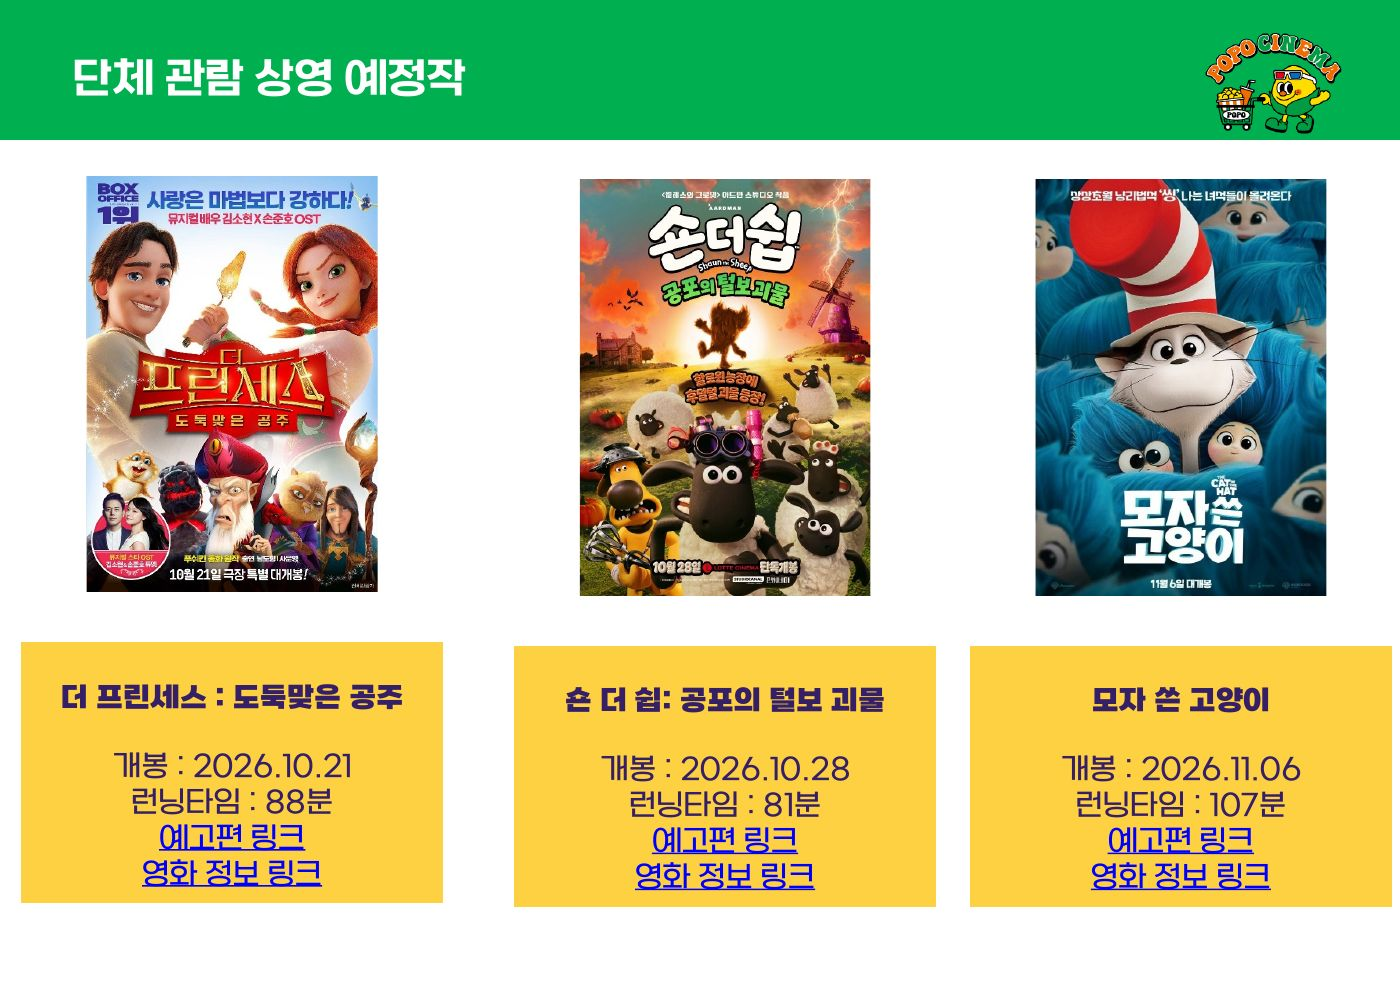
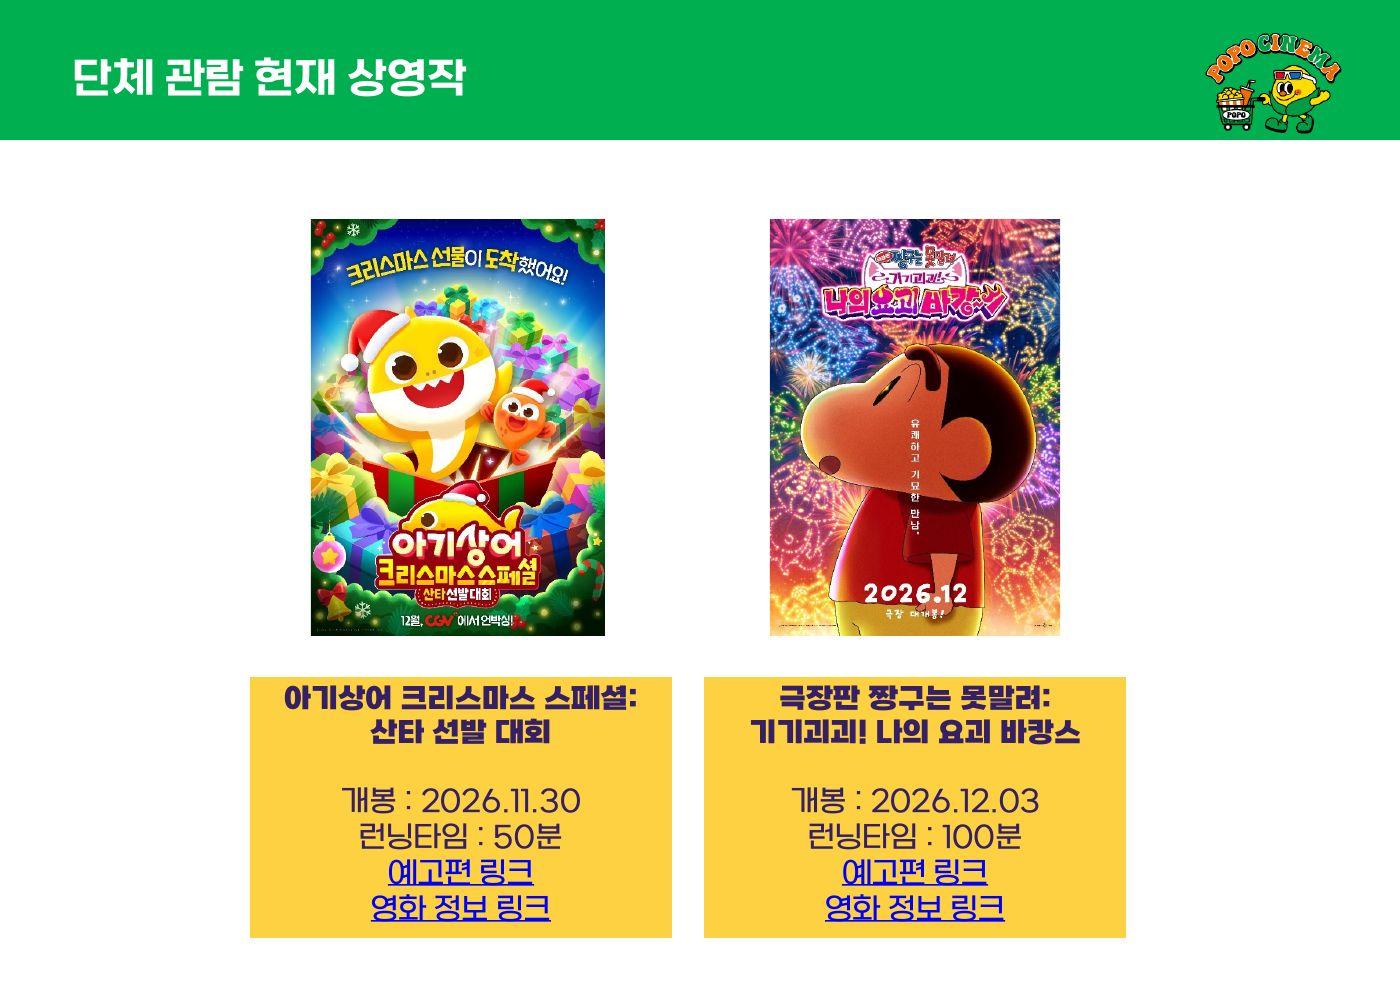
영화 안내 1월판(27년 1월 PDF): 현재 상영작 정리, 미션산타 예고편

diff --git a/movies/index.html b/movies/index.html
@@ -83,9 +83,9 @@
 </footer>
 <script>
   // 영화안내\만들기.js 가 채운다: 쪽 수, 그림 속 링크 칸(쪽 대비 %), 영화별 버튼
-  var PAGES = 17;
-  var AREAS = [{"p":9,"x":71.59,"y":54.52,"w":10.26,"h":2.62,"u":"https://www.youtube.com/watch?v=S7wUsCwu_dI","k":"예고편"},{"p":9,"x":71.5,"y":58.01,"w":12.67,"h":2.73,"u":"https://search.naver.com/search.naver?where=nexearch&sm=tab_etc&mra=bkEw&pkid=68&os=32764154&qvt=0&query=%ED%95%91%ED%81%AC%ED%90%81%20%EC%9B%90%EB%8D%94%EC%8A%A4%ED%83%80%20%ED%8A%B9%EB%B3%84%ED%8E%B8%EF%BC%9A%20%ED%98%B8%EA%B8%B0%EC%99%80%20%EB%8F%84%EB%91%91%EC%9E%90%EB%8F%99%EC%B0%A8","k":"영화 정보"},{"p":14,"x":79.21,"y":82.83,"w":10.25,"h":2.63,"u":"https://m.naver.com/shorts/?seedMediaId=0BFB34426074E412215D0DFA6DEBDBCA80B1&serviceType=NTV","k":"예고편"},{"p":14,"x":78,"y":86.3,"w":12.67,"h":2.75,"u":"https://search.naver.com/search.naver?where=nexearch&ssc=tab.nx.all&sm=tab_clk.se&qvt=0&query=%EB%AA%A8%EC%9E%90+%EC%93%B4+%EA%B3%A0%EC%96%91%EC%9D%B4+%EC%A0%95%EB%B3%B4&os=41464329&pkid=68&mra=QkRS%5EbkEw%5EVmJEX0NQYw%3D%3D%5ETEdOX0tJVA%3D%3D","k":"영화 정보"},{"p":14,"x":46.66,"y":82.83,"w":10.25,"h":2.63,"u":"https://m.naver.com/shorts/?seedMediaId=ADFA40A278C5D6BFB388029791CA37635898&serviceType=CLIP","k":"예고편"},{"p":14,"x":45.45,"y":86.3,"w":12.67,"h":2.75,"u":"https://search.naver.com/search.naver?where=nexearch&ssc=tab.nx.all&sm=tab_clk.se&qvt=0&query=%EC%88%80+%EB%8D%94+%EC%89%BD+%EA%B3%B5%ED%8F%AC%EC%9D%98+%ED%84%B8%EB%B3%B4+%EA%B4%B4%EB%AC%BC&os=42185628&pkid=68&mra=QkRS%5EbkEw%5EVmJEX0NQYw%3D%3D%5ETEdOX0tJVA%3D%3D","k":"영화 정보"},{"p":14,"x":11.45,"y":82.49,"w":10.25,"h":2.63,"u":"https://m.naver.com/shorts/?seedMediaId=26839BD54C292633366426AE0E820EF3DC32&serviceType=CLIP","k":"예고편"},{"p":14,"x":10.24,"y":85.97,"w":12.67,"h":2.75,"u":"https://search.naver.com/search.naver?where=nexearch&ssc=tab.nx.all&sm=tab_clk.se&qvt=0&query=%EB%8D%94+%ED%94%84%EB%A6%B0%EC%84%B8%EC%8A%A4+%EB%8F%84%EB%91%91%EB%A7%9E%EC%9D%80+%EA%B3%B5%EC%A3%BC+%EC%A0%95%EB%B3%B4&os=8675157&pkid=68&mra=QkRS%5EbkEw%5EVmJEX0NQYw%3D%3D%5ETEdOX0tJVA%3D%3D","k":"영화 정보"},{"p":15,"x":27.79,"y":85.99,"w":10.24,"h":2.62,"u":"https://www.youtube.com/watch?v=-bNUVMv51i4","k":"예고편"},{"p":15,"x":26.58,"y":89.48,"w":12.66,"h":2.73,"u":"https://search.naver.com/search.naver?where=nexearch&ssc=tab.nx.all&sm=tab_clk.se&qvt=0&query=%EC%95%84%EA%B8%B0%EC%83%81%EC%96%B4+%ED%81%AC%EB%A6%AC%EC%8A%A4%EB%A7%88%EC%8A%A4+%EC%8A%A4%ED%8E%98%EC%85%9C+%EC%82%B0%ED%83%80+%EC%84%A0%EB%B0%9C+%EB%8C%80%ED%9A%8C&os=42289417&pkid=68&mra=QkRS%5EbkEw%5EVmJEX0NQYw%3D%3D%5ETEdOX0tJVA%3D%3D","k":"영화 정보"},{"p":15,"x":60.24,"y":85.99,"w":10.24,"h":2.62,"u":"https://youtu.be/c-j89j5O3Qw?si=If_586BFEW0dMwQ4","k":"예고편"},{"p":15,"x":59.03,"y":89.48,"w":12.66,"h":2.73,"u":"https://search.naver.com/search.naver?sm=tab_hty.top&where=nexearch&ssc=tab.nx.all&query=%EA%B7%B9%EC%9E%A5%ED%8C%90+%EC%A7%B1%EA%B5%AC%EB%8A%94+%EB%AA%BB%EB%A7%90%EB%A0%A4%3A+%EA%B8%B0%EA%B8%B0%EA%B4%B4%EA%B4%B4%21+%EB%82%98%EC%9D%98+%EC%9A%94%EA%B4%B4+%EB%B0%94%EC%BA%89%EC%8A%A4&oquery=%EC%BA%94%EB%B0%94&tqi=jXrhDdqos5ossetvxZl-048995&ackey=94jstv1m","k":"영화 정보"},{"p":16,"x":61.04,"y":87.45,"w":10.25,"h":2.62,"u":"https://m.naver.com/shorts/?seedMediaId=D93D88CBCDE3B87FBDDABB16F34AC9175D92&serviceType=CLIP","k":"예고편"},{"p":16,"x":59.83,"y":90.94,"w":12.67,"h":2.73,"u":"https://search.naver.com/search.naver?where=nexearch&query=%EC%95%B5%EA%B7%B8%EB%A6%AC%EB%B2%84%EB%93%9C+3+%EB%B2%84%EB%93%9C+%EC%95%84%EC%9D%BC%EB%9E%9C%EB%93%9C%EB%A5%BC+%EC%A7%80%EC%BC%9C%EB%9D%BC","k":"영화 정보"},{"p":16,"x":27.21,"y":90.73,"w":12.67,"h":2.73,"u":"https://search.naver.com/search.naver?where=nexearch&ssc=tab.nx.all&sm=tab_clk.se&qvt=0&query=%EB%AF%B8%EC%85%98%EC%82%B0%ED%83%80&os=42328075&pkid=68&mra=QkRS%5ETk9DX1gwQQ%3D%3D%5EVmJEX0NQYw%3D%3D%2CVmJEX0NQYg%3D%3D%5ETEdOX0tJVA%3D%3D","k":"영화 정보"}];
-  var MOVIES = [{"p":9,"n":"핑크퐁 원더스타 특별편： 호기와 도둑자동차","t":"https://www.youtube.com/watch?v=S7wUsCwu_dI","i":"https://search.naver.com/search.naver?where=nexearch&sm=tab_etc&mra=bkEw&pkid=68&os=32764154&qvt=0&query=%ED%95%91%ED%81%AC%ED%90%81%20%EC%9B%90%EB%8D%94%EC%8A%A4%ED%83%80%20%ED%8A%B9%EB%B3%84%ED%8E%B8%EF%BC%9A%20%ED%98%B8%EA%B8%B0%EC%99%80%20%EB%8F%84%EB%91%91%EC%9E%90%EB%8F%99%EC%B0%A8"},{"p":14,"n":"더 프린세스 도둑맞은 공주","t":"https://m.naver.com/shorts/?seedMediaId=26839BD54C292633366426AE0E820EF3DC32&serviceType=CLIP","i":"https://search.naver.com/search.naver?where=nexearch&ssc=tab.nx.all&sm=tab_clk.se&qvt=0&query=%EB%8D%94+%ED%94%84%EB%A6%B0%EC%84%B8%EC%8A%A4+%EB%8F%84%EB%91%91%EB%A7%9E%EC%9D%80+%EA%B3%B5%EC%A3%BC+%EC%A0%95%EB%B3%B4&os=8675157&pkid=68&mra=QkRS%5EbkEw%5EVmJEX0NQYw%3D%3D%5ETEdOX0tJVA%3D%3D"},{"p":14,"n":"숀 더 쉽 공포의 털보 괴물","t":"https://m.naver.com/shorts/?seedMediaId=ADFA40A278C5D6BFB388029791CA37635898&serviceType=CLIP","i":"https://search.naver.com/search.naver?where=nexearch&ssc=tab.nx.all&sm=tab_clk.se&qvt=0&query=%EC%88%80+%EB%8D%94+%EC%89%BD+%EA%B3%B5%ED%8F%AC%EC%9D%98+%ED%84%B8%EB%B3%B4+%EA%B4%B4%EB%AC%BC&os=42185628&pkid=68&mra=QkRS%5EbkEw%5EVmJEX0NQYw%3D%3D%5ETEdOX0tJVA%3D%3D"},{"p":14,"n":"모자 쓴 고양이","t":"https://m.naver.com/shorts/?seedMediaId=0BFB34426074E412215D0DFA6DEBDBCA80B1&serviceType=NTV","i":"https://search.naver.com/search.naver?where=nexearch&ssc=tab.nx.all&sm=tab_clk.se&qvt=0&query=%EB%AA%A8%EC%9E%90+%EC%93%B4+%EA%B3%A0%EC%96%91%EC%9D%B4+%EC%A0%95%EB%B3%B4&os=41464329&pkid=68&mra=QkRS%5EbkEw%5EVmJEX0NQYw%3D%3D%5ETEdOX0tJVA%3D%3D"},{"p":15,"n":"아기상어 크리스마스 스페셜 산타 선발 대회","t":"https://www.youtube.com/watch?v=-bNUVMv51i4","i":"https://search.naver.com/search.naver?where=nexearch&ssc=tab.nx.all&sm=tab_clk.se&qvt=0&query=%EC%95%84%EA%B8%B0%EC%83%81%EC%96%B4+%ED%81%AC%EB%A6%AC%EC%8A%A4%EB%A7%88%EC%8A%A4+%EC%8A%A4%ED%8E%98%EC%85%9C+%EC%82%B0%ED%83%80+%EC%84%A0%EB%B0%9C+%EB%8C%80%ED%9A%8C&os=42289417&pkid=68&mra=QkRS%5EbkEw%5EVmJEX0NQYw%3D%3D%5ETEdOX0tJVA%3D%3D"},{"p":15,"n":"극장판 짱구는 못말려: 기기괴괴! 나의 요괴 바캉스","t":"https://youtu.be/c-j89j5O3Qw?si=If_586BFEW0dMwQ4","i":"https://search.naver.com/search.naver?sm=tab_hty.top&where=nexearch&ssc=tab.nx.all&query=%EA%B7%B9%EC%9E%A5%ED%8C%90+%EC%A7%B1%EA%B5%AC%EB%8A%94+%EB%AA%BB%EB%A7%90%EB%A0%A4%3A+%EA%B8%B0%EA%B8%B0%EA%B4%B4%EA%B4%B4%21+%EB%82%98%EC%9D%98+%EC%9A%94%EA%B4%B4+%EB%B0%94%EC%BA%89%EC%8A%A4&oquery=%EC%BA%94%EB%B0%94&tqi=jXrhDdqos5ossetvxZl-048995&ackey=94jstv1m"},{"p":16,"n":"미션산타","t":"","i":"https://search.naver.com/search.naver?where=nexearch&ssc=tab.nx.all&sm=tab_clk.se&qvt=0&query=%EB%AF%B8%EC%85%98%EC%82%B0%ED%83%80&os=42328075&pkid=68&mra=QkRS%5ETk9DX1gwQQ%3D%3D%5EVmJEX0NQYw%3D%3D%2CVmJEX0NQYg%3D%3D%5ETEdOX0tJVA%3D%3D"},{"p":16,"n":"앵그리버드 3: 버드 아일랜드를 지켜라!","t":"https://m.naver.com/shorts/?seedMediaId=D93D88CBCDE3B87FBDDABB16F34AC9175D92&serviceType=CLIP","i":"https://search.naver.com/search.naver?where=nexearch&query=%EC%95%B5%EA%B7%B8%EB%A6%AC%EB%B2%84%EB%93%9C+3+%EB%B2%84%EB%93%9C+%EC%95%84%EC%9D%BC%EB%9E%9C%EB%93%9C%EB%A5%BC+%EC%A7%80%EC%BC%9C%EB%9D%BC"}];
+  var PAGES = 16;
+  var AREAS = [{"p":9,"x":71.59,"y":54.52,"w":10.26,"h":2.62,"u":"https://www.youtube.com/watch?v=S7wUsCwu_dI","k":"예고편"},{"p":9,"x":71.5,"y":58.01,"w":12.67,"h":2.73,"u":"https://search.naver.com/search.naver?where=nexearch&sm=tab_etc&mra=bkEw&pkid=68&os=32764154&qvt=0&query=%ED%95%91%ED%81%AC%ED%90%81%20%EC%9B%90%EB%8D%94%EC%8A%A4%ED%83%80%20%ED%8A%B9%EB%B3%84%ED%8E%B8%EF%BC%9A%20%ED%98%B8%EA%B8%B0%EC%99%80%20%EB%8F%84%EB%91%91%EC%9E%90%EB%8F%99%EC%B0%A8","k":"영화 정보"},{"p":14,"x":27.79,"y":85.99,"w":10.24,"h":2.62,"u":"https://www.youtube.com/watch?v=-bNUVMv51i4","k":"예고편"},{"p":14,"x":26.58,"y":89.48,"w":12.66,"h":2.73,"u":"https://search.naver.com/search.naver?where=nexearch&ssc=tab.nx.all&sm=tab_clk.se&qvt=0&query=%EC%95%84%EA%B8%B0%EC%83%81%EC%96%B4+%ED%81%AC%EB%A6%AC%EC%8A%A4%EB%A7%88%EC%8A%A4+%EC%8A%A4%ED%8E%98%EC%85%9C+%EC%82%B0%ED%83%80+%EC%84%A0%EB%B0%9C+%EB%8C%80%ED%9A%8C&os=42289417&pkid=68&mra=QkRS%5EbkEw%5EVmJEX0NQYw%3D%3D%5ETEdOX0tJVA%3D%3D","k":"영화 정보"},{"p":14,"x":60.24,"y":85.99,"w":10.24,"h":2.62,"u":"https://youtu.be/c-j89j5O3Qw?si=If_586BFEW0dMwQ4","k":"예고편"},{"p":14,"x":59.03,"y":89.48,"w":12.66,"h":2.73,"u":"https://search.naver.com/search.naver?sm=tab_hty.top&where=nexearch&ssc=tab.nx.all&query=%EA%B7%B9%EC%9E%A5%ED%8C%90+%EC%A7%B1%EA%B5%AC%EB%8A%94+%EB%AA%BB%EB%A7%90%EB%A0%A4%3A+%EA%B8%B0%EA%B8%B0%EA%B4%B4%EA%B4%B4%21+%EB%82%98%EC%9D%98+%EC%9A%94%EA%B4%B4+%EB%B0%94%EC%BA%89%EC%8A%A4&oquery=%EC%BA%94%EB%B0%94&tqi=jXrhDdqos5ossetvxZl-048995&ackey=94jstv1m","k":"영화 정보"},{"p":15,"x":61.04,"y":87.45,"w":10.25,"h":2.62,"u":"https://m.naver.com/shorts/?seedMediaId=D93D88CBCDE3B87FBDDABB16F34AC9175D92&serviceType=CLIP","k":"예고편"},{"p":15,"x":59.83,"y":90.94,"w":12.67,"h":2.73,"u":"https://search.naver.com/search.naver?where=nexearch&ssc=tab.nx.all&sm=tab_clk.se&qvt=0&query=%EC%95%B5%EA%B7%B8%EB%A6%AC%EB%B2%84%EB%93%9C+3+%EB%B2%84%EB%93%9C+%EC%95%84%EC%9D%BC%EB%9E%9C%EB%93%9C%EB%A5%BC+%EC%A7%80%EC%BC%9C%EB%9D%BC&os=41656931&pkid=68&mra=QkRS%5ETk9DX1gwQQ%3D%3D%5EVmJEX0NQYw%3D%3D%2CVmJEX0NQYg%3D%3D%5ETEdOX0tJVA%3D%3D","k":"영화 정보"},{"p":15,"x":28.43,"y":87.24,"w":10.25,"h":2.62,"u":"https://m.naver.com/shorts/?seedMediaId=58BC86E89569AF56FA5E5E3BDAEFAFF2C97E&serviceType=CLIP","k":"예고편"},{"p":15,"x":27.21,"y":90.73,"w":12.67,"h":2.73,"u":"https://search.naver.com/search.naver?where=nexearch&ssc=tab.nx.all&sm=tab_clk.se&qvt=0&query=%EB%AF%B8%EC%85%98%EC%82%B0%ED%83%80&os=42328075&pkid=68&mra=QkRS%5ETk9DX1gwQQ%3D%3D%5EVmJEX0NQYw%3D%3D%2CVmJEX0NQYg%3D%3D%5ETEdOX0tJVA%3D%3D","k":"영화 정보"}];
+  var MOVIES = [{"p":9,"n":"핑크퐁 원더스타 특별편： 호기와 도둑자동차","t":"https://www.youtube.com/watch?v=S7wUsCwu_dI","i":"https://search.naver.com/search.naver?where=nexearch&sm=tab_etc&mra=bkEw&pkid=68&os=32764154&qvt=0&query=%ED%95%91%ED%81%AC%ED%90%81%20%EC%9B%90%EB%8D%94%EC%8A%A4%ED%83%80%20%ED%8A%B9%EB%B3%84%ED%8E%B8%EF%BC%9A%20%ED%98%B8%EA%B8%B0%EC%99%80%20%EB%8F%84%EB%91%91%EC%9E%90%EB%8F%99%EC%B0%A8"},{"p":14,"n":"아기상어 크리스마스 스페셜 산타 선발 대회","t":"https://www.youtube.com/watch?v=-bNUVMv51i4","i":"https://search.naver.com/search.naver?where=nexearch&ssc=tab.nx.all&sm=tab_clk.se&qvt=0&query=%EC%95%84%EA%B8%B0%EC%83%81%EC%96%B4+%ED%81%AC%EB%A6%AC%EC%8A%A4%EB%A7%88%EC%8A%A4+%EC%8A%A4%ED%8E%98%EC%85%9C+%EC%82%B0%ED%83%80+%EC%84%A0%EB%B0%9C+%EB%8C%80%ED%9A%8C&os=42289417&pkid=68&mra=QkRS%5EbkEw%5EVmJEX0NQYw%3D%3D%5ETEdOX0tJVA%3D%3D"},{"p":14,"n":"극장판 짱구는 못말려: 기기괴괴! 나의 요괴 바캉스","t":"https://youtu.be/c-j89j5O3Qw?si=If_586BFEW0dMwQ4","i":"https://search.naver.com/search.naver?sm=tab_hty.top&where=nexearch&ssc=tab.nx.all&query=%EA%B7%B9%EC%9E%A5%ED%8C%90+%EC%A7%B1%EA%B5%AC%EB%8A%94+%EB%AA%BB%EB%A7%90%EB%A0%A4%3A+%EA%B8%B0%EA%B8%B0%EA%B4%B4%EA%B4%B4%21+%EB%82%98%EC%9D%98+%EC%9A%94%EA%B4%B4+%EB%B0%94%EC%BA%89%EC%8A%A4&oquery=%EC%BA%94%EB%B0%94&tqi=jXrhDdqos5ossetvxZl-048995&ackey=94jstv1m"},{"p":15,"n":"미션산타","t":"https://m.naver.com/shorts/?seedMediaId=58BC86E89569AF56FA5E5E3BDAEFAFF2C97E&serviceType=CLIP","i":"https://search.naver.com/search.naver?where=nexearch&ssc=tab.nx.all&sm=tab_clk.se&qvt=0&query=%EB%AF%B8%EC%85%98%EC%82%B0%ED%83%80&os=42328075&pkid=68&mra=QkRS%5ETk9DX1gwQQ%3D%3D%5EVmJEX0NQYw%3D%3D%2CVmJEX0NQYg%3D%3D%5ETEdOX0tJVA%3D%3D"},{"p":15,"n":"앵그리버드 3 버드 아일랜드를 지켜라","t":"https://m.naver.com/shorts/?seedMediaId=D93D88CBCDE3B87FBDDABB16F34AC9175D92&serviceType=CLIP","i":"https://search.naver.com/search.naver?where=nexearch&ssc=tab.nx.all&sm=tab_clk.se&qvt=0&query=%EC%95%B5%EA%B7%B8%EB%A6%AC%EB%B2%84%EB%93%9C+3+%EB%B2%84%EB%93%9C+%EC%95%84%EC%9D%BC%EB%9E%9C%EB%93%9C%EB%A5%BC+%EC%A7%80%EC%BC%9C%EB%9D%BC&os=41656931&pkid=68&mra=QkRS%5ETk9DX1gwQQ%3D%3D%5EVmJEX0NQYw%3D%3D%2CVmJEX0NQYg%3D%3D%5ETEdOX0tJVA%3D%3D"}];
   var box = document.getElementById('pages');
   function link(href, cls, text, label) {
     var a = document.createElement('a'); a.href = href; a.target = '_blank'; a.rel = 'noopener';
